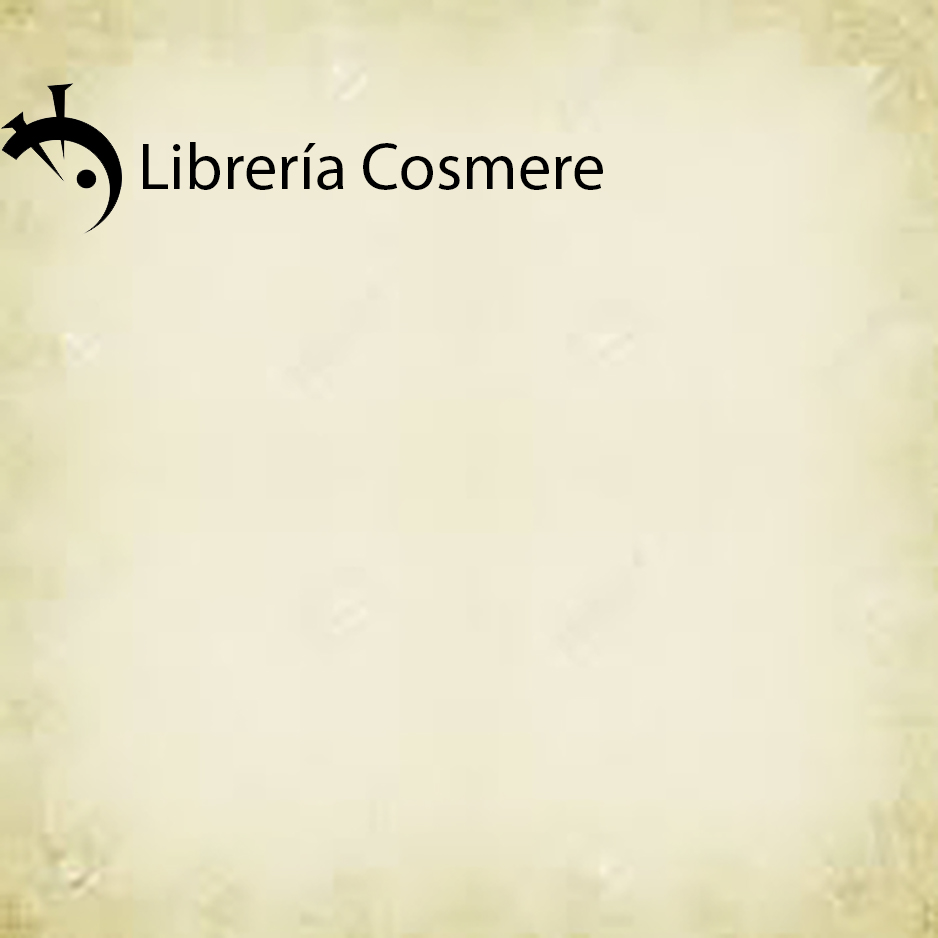
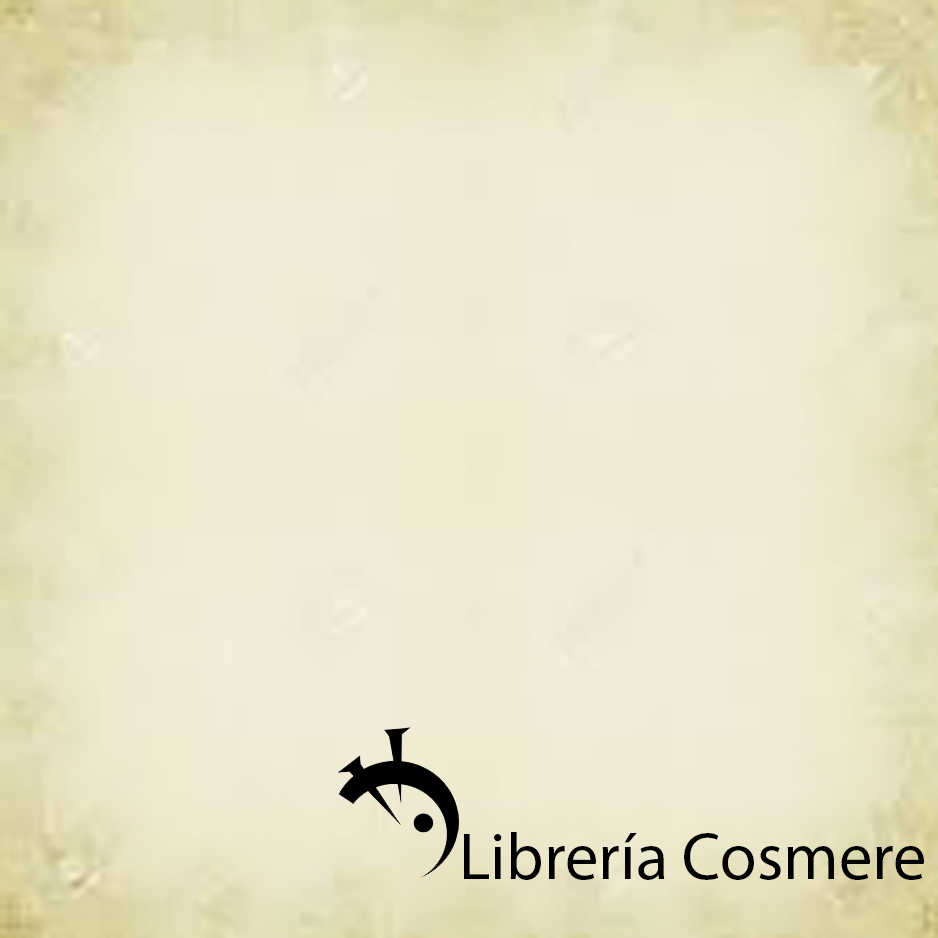
pre mediaqueries

diff --git a/panel_de_control/paneldecontrol.css b/panel_de_control/paneldecontrol.css
@@ -12,15 +12,18 @@
     max-width: 1000px;
     display: flex;
     flex-wrap: wrap;
+    justify-content: center;
 }
 
 body {
     background-image: url("../images/fondo.jpg");
-    background-size: cover;
+    background-repeat: no-repeat;
+    background-size: 100%;
 }
 
 .formu{
     display: flex;
+    flex-direction: column;
     justify-content: center;
     align-items: center;
     

diff --git a/panel_de_control/tu_usuario/editar_usuario.php b/panel_de_control/tu_usuario/editar_usuario.php
@@ -121,60 +121,60 @@ $resultado_usuarios = $mysqli->query($todos_usuarios);
     </header>
 
 
-    <div class="container">
+    <!-- <div class="container"> -->
         <section class="tus_datos">
+            <br>
             <H1>Bienvenido a tu cuenta</H1>
             <br>
-            <br>
-            <p>Edite sus datos en este formulario</p>
             <div class="formu">
                 <section>
-                <form action="editar_usuario2.php" method="post">
-                    <?php
-                    while ($fila = $datos_usu->fetch_assoc()) {
-                    ?>
-                        <div class="form-floating mb-3">
-                            <input type="text" name="usuario" class="form-control" id="floatingInput" placeholder="" value="<?php echo $fila['usuario'] ?>">
-                            <label for="floatingInput"> Usuario:</label>
+                    <h3>Edite sus datos aquí:</h3>
+                    <form action="editar_usuario2.php" method="post">
+                        <?php
+                        while ($fila = $datos_usu->fetch_assoc()) {
+                        ?>
+                            <div class="form-floating mb-3">
+                                <input type="text" name="usuario" class="form-control" id="floatingInput" placeholder="" value="<?php echo $fila['usuario'] ?>">
+                                <label for="floatingInput"> Usuario:</label>
 
-                            <br>
-                        </div>
+                                <br>
+                            </div>
 
-                        <div class="form-floating mb-3">
-                            <input type="password" name="contra" class="form-control" id="floatingInput" placeholder="" value="<?php echo $fila['contraseña'] ?>">
-                            <label for="floatingInput"> Contraseña:</label>
+                            <div class="form-floating mb-3">
+                                <input type="password" name="contra" class="form-control" id="floatingInput" placeholder="" value="<?php echo $fila['contraseña'] ?>">
+                                <label for="floatingInput"> Contraseña:</label>
 
-                            <br>
-                        </div>
+                                <br>
+                            </div>
 
-                        <div class="form-floating mb-3">
-                            <input type="mail" name="correo" class="form-control" id="floatingInput" placeholder="" value="<?php echo $fila['correo_electronico'] ?>">
-                            <label for="floatingInput"> Correo electronico:</label>
-                            <br>
-                        </div>
+                            <div class="form-floating mb-3">
+                                <input type="mail" name="correo" class="form-control" id="floatingInput" placeholder="" value="<?php echo $fila['correo_electronico'] ?>">
+                                <label for="floatingInput"> Correo electronico:</label>
+                                <br>
+                            </div>
 
-                        <div class="form-floating mb-3">
-                            <input type="text" name="direccion" class="form-control" id="floatingInput" placeholder="" value="<?php echo $fila['direccion'] ?>">
-                            <label for="floatingInput"> Direccion:</label>
-                            <br>
-                        </div>
+                            <div class="form-floating mb-3">
+                                <input type="text" name="direccion" class="form-control" id="floatingInput" placeholder="" value="<?php echo $fila['direccion'] ?>">
+                                <label for="floatingInput"> Direccion:</label>
+                                <br>
+                            </div>
 
-                        <div class="form-floating mb-3">
-                            <input type="number" name="telefono" class="form-control" id="floatingInput" placeholder="" value="<?php echo $fila['telefono'] ?>">
-                            <label for="floatingInput"> Teléfono:</label>
-                            <br>
-                        </div>
+                            <div class="form-floating mb-3">
+                                <input type="number" name="telefono" class="form-control" id="floatingInput" placeholder="" value="<?php echo $fila['telefono'] ?>">
+                                <label for="floatingInput"> Teléfono:</label>
+                                <br>
+                            </div>
 
-                        <input type="hidden" name="id_usuario" value="<?php echo $fila['id_usuario'] ?>">
-                        <input type="submit" class="btn btn-primary" value="Actualiza tus datos" name="Enviar">
-                    <?php
-                    }
-                    ?>
-                </form>
+                            <input type="hidden" name="id_usuario" value="<?php echo $fila['id_usuario'] ?>">
+                            <input type="submit" class="btn btn-primary" value="Actualiza tus datos" name="Enviar">
+                        <?php
+                        }
+                        ?>
+                    </form>
+                    <p>Si desea dar de baja su usuario pulse <a href="eliminar.php?id_usuario=$id_usu">aquí</a></p>
                 </section>
-            
-            
-            <p>Si desea dar de baja su usuario pulse <a href="eliminar.php?id_usuario=$id_usu">aquí</a></p>
+
+
         </section>
 
 

diff --git a/panel_de_control/listado_libros/editar_libro.php b/panel_de_control/listado_libros/editar_libro.php
@@ -121,38 +121,36 @@ $rango = $_SESSION['rango'];
             </div>
         </nav>
     </header>
- 
 
+    
         <section id='Listado_libros'>
-
-            <br>
-            <br>
+            <div class="formu">
             <form action="editar_libro2.php" method="get" class="col-3" autocomplete="off">
+                <br>
                 <?php
-
                 while ($fila = $resultado->fetch_assoc()) {
                 ?>
                     <h2><?php echo $fila['Titulo'] ?></h2>
 
                     <div class="form-floating mb-3">
-                    <label for="floatingInput">Titulo</label>
-                    <br>
-                    <input type="text" name="Titulo" size="50" class="form-control" id="floatingInput" placeholder="" value="<?php echo $fila['Titulo'] ?>">
-                    <br><br>
+                        <label for="floatingInput">Titulo</label>
+                        <br>
+                        <input type="text" name="Titulo" size="50" class="form-control" id="floatingInput" placeholder="" value="<?php echo $fila['Titulo'] ?>">
+                        <br>
                     </div>
 
                     <div class="form-floating mb-3">
-                    <label for="floatingInput">Cantidad_disponible</label>
-                    <br>
-                    <input type="number" name="Cantidad_disponible" class="form-control" id="floatingInput" placeholder="" value="<?php echo $fila['cantidad_dis'] ?>">
-                    <br><br>
+                        
+                        <input type="number" name="Cantidad_disponible" class="form-control" id="floatingInput" placeholder="" value="<?php echo $fila['cantidad_dis'] ?>">
+                        <label for="floatingInput">Cantidad_disponible</label>
+                        <br>
                     </div>
 
                     <div class="form-floating mb-3">
-                    <label for="floatingInput">ISBN</label>
-                    <br>
-                    <input type="number" name="ISBN" class="form-control" id="floatingInput" placeholder="" value="<?php echo $fila['ISBN'] ?>">
-                    <br><br>
+    
+                        <input type="number" name="ISBN" class="form-control" id="floatingInput" placeholder="" value="<?php echo $fila['ISBN'] ?>">
+                        <label for="floatingInput">ISBN</label>
+                        <br>
                     </div>
 
 
@@ -160,14 +158,14 @@ $rango = $_SESSION['rango'];
                         <select name='autor' class="form-select" id="floatingSelect">
                             <?php
                             while ($fila = $resultado1->fetch_assoc()) {
-                                
+
                                 echo "<option value=", $fila['id_autor'], ">", $fila['Nombre'], "</option>";
                             }
                             ?>
-                            <label for="floatingSelect">Autor:</label>
                         </select>
-                    
-                    <br><br>
+                        <label for="floatingSelect">Autor:</label>
+
+                        <br>
                     </div>
 
 
@@ -178,10 +176,10 @@ $rango = $_SESSION['rango'];
                                 echo "<option value=", $fila['id_editorial'], ">", $fila['Nombre_ed'], "</option>";
                             }
                             ?>
-                            <label for="floatingSelect">Editorial:</label>
                         </select>
-                    
-                    <br><br>
+                        <label for="floatingSelect">Editorial:</label>
+
+                        <br>
                     </div>
                     <input type="hidden" name="id_libro" value="<?php echo $id_libro ?>">
 
@@ -192,11 +190,12 @@ $rango = $_SESSION['rango'];
                 }
                 ?>
             </form>
+            </div>
         </section>
-
-
-
     
+
+
+
 </body>
 
 </html>

diff --git a/panel_de_control/lista_compras.php b/panel_de_control/lista_compras.php
@@ -19,16 +19,6 @@ $todo = $mysqli->query($sqljoin);
     <link rel="stylesheet" href="paneldecontrol.css">
     <link rel="icon" href="../images/Acero.ico" type="image/png">
 
-    <!-- Bootstrap CSS -->
-    <link rel="stylesheet" href="css/bootstrap.min.css">
-    <link rel="stylesheet" href="css/jquery.dataTables.min.css">
-    <link rel="stylesheet" href="estiloinicio.css">
-
-    <!-- Optional JavaScript -->
-    <!-- jQuery first, then Popper.js, then Bootstrap JS -->
-    <script src="js/jquery-3.4.1.min.js"></script>
-    <script src="js/bootstrap.min.js"></script>
-    <script src="js/jquery.dataTables.min.js"></script>
     <link href="https://cdn.jsdelivr.net/npm/bootstrap@5.3.0-alpha3/dist/css/bootstrap.min.css" rel="stylesheet" integrity="sha384-KK94CHFLLe+nY2dmCWGMq91rCGa5gtU4mk92HdvYe+M/SXH301p5ILy+dN9+nJOZ" crossorigin="anonymous">
     <script src="https://cdn.jsdelivr.net/npm/bootstrap@5.3.0-alpha3/dist/js/bootstrap.bundle.min.js" integrity="sha384-ENjdO4Dr2bkBIFxQpeoTz1HIcje39Wm4jDKdf19U8gI4ddQ3GYNS7NTKfAdVQSZe" crossorigin="anonymous"></script>
 
@@ -126,10 +116,11 @@ $todo = $mysqli->query($sqljoin);
 
     <div class="container">
         <main>
-            <section>
+        
                 <h2>Tus compras</h2>
                 <br>
                 <br>
+                <section class="tablas">
                 <table class="table table-striped table-light table-bordered border-dark">
                     <thead>
                         <tr>

diff --git a/panel_de_control/listado_libros/agregar_libro.php b/panel_de_control/listado_libros/agregar_libro.php
@@ -1,4 +1,11 @@
 <?php
+require '../../conexion.php';
+$autores = "Select * from autores";
+$resultado1 = $mysqli->query($autores);
+
+$editoriales = "Select * from editorial";
+$resultado2 = $mysqli->query($editoriales);
+
 session_start();
 
 $rango = $_SESSION['rango'];
@@ -124,11 +131,10 @@ $rango = $_SESSION['rango'];
         </nav>
     </header>
     <main>
-    <div class="row">
+ 
+        
+        <div class="formu">
         <h1> Agregar libro nuevo</h1>
-    </div>
-
-    <div class="formu">
     <form action="agregar_libro2.php" method="get" class="col-3" name="registro" autocomplete="off">
 
         <div class="form-floating mb-3">

diff --git a/panel_de_control/listado_editorial/listado_editorial_añadir.php b/panel_de_control/listado_editorial/listado_editorial_añadir.php
@@ -127,8 +127,8 @@ $rango = $_SESSION['rango'];
 
 
     <body>
-        <h1>Agregar nueva editorial</h1>
         <div class="formu">
+            <h1>Agregar nueva editorial</h1>
             <form action="listado_usuarios_editar2.php" class="col-3" method="post">
                 <div class="form-floating mb-3">
                     <input type="text" name="nombre_ed" class="form-control" id="floatingInput" placeholder="">

diff --git a/panel_de_control/listado_usuarios/listado_usuarios_editar.php b/panel_de_control/listado_usuarios/listado_usuarios_editar.php
@@ -132,11 +132,10 @@ $resultado_usuarios = $mysqli->query($todos_usuarios);
         </nav>
     </header>
 
-    <H1>Bienvenido al listado de usuarios</H1>
-    <br>
-    <br>
-
+    
+    
     <div class="formu">
+        <H1>Bienvenido al listado de usuarios</H1>
         <form action="listado_usuarios_editar2.php" class="col-3" method="post">
             <?php
             while ($fila = $datos_usu->fetch_assoc()) {

diff --git a/panel_de_control/listado_editorial/listado_editorial_editar.php b/panel_de_control/listado_editorial/listado_editorial_editar.php
@@ -118,9 +118,9 @@ $rango = $_SESSION['rango'];
         </nav>
     </header>
 
-    <h1>Editar editoriar</h1>
-<br>
-        <div class="formu">
+ 
+    <div class="formu">
+            <h1>Editar editoriar</h1>
         <form action="listado_usuarios_editar2.php" class="col-3" method="post">
             <?php
             while ($fila = $resultado->fetch_assoc()) {

diff --git a/panel_de_control/listado_usuarios/listado_usuarios_registrar.php b/panel_de_control/listado_usuarios/listado_usuarios_registrar.php
@@ -114,11 +114,11 @@ $rango = $_SESSION['rango'];
 			</div>
 		</nav>
 	</header>
-	<h1> Nuevo usuario para libreria</h1>
-
+	
 	<br><br><br>
-
+	
 	<div class="formu">
+		<h1> Nuevo usuario para libreria</h1>
 
 		<form action="listado_usuarios_registrar2.php" method="get" class="col-3" name="registro" autocomplete="off">
 

diff --git a/panel_de_control/iniciopanel.php b/panel_de_control/iniciopanel.php
@@ -1,5 +1,6 @@
 <?php
 require '../conexion.php';
+
 session_start();
 
 $id_usu = $_SESSION['id_usu'];
